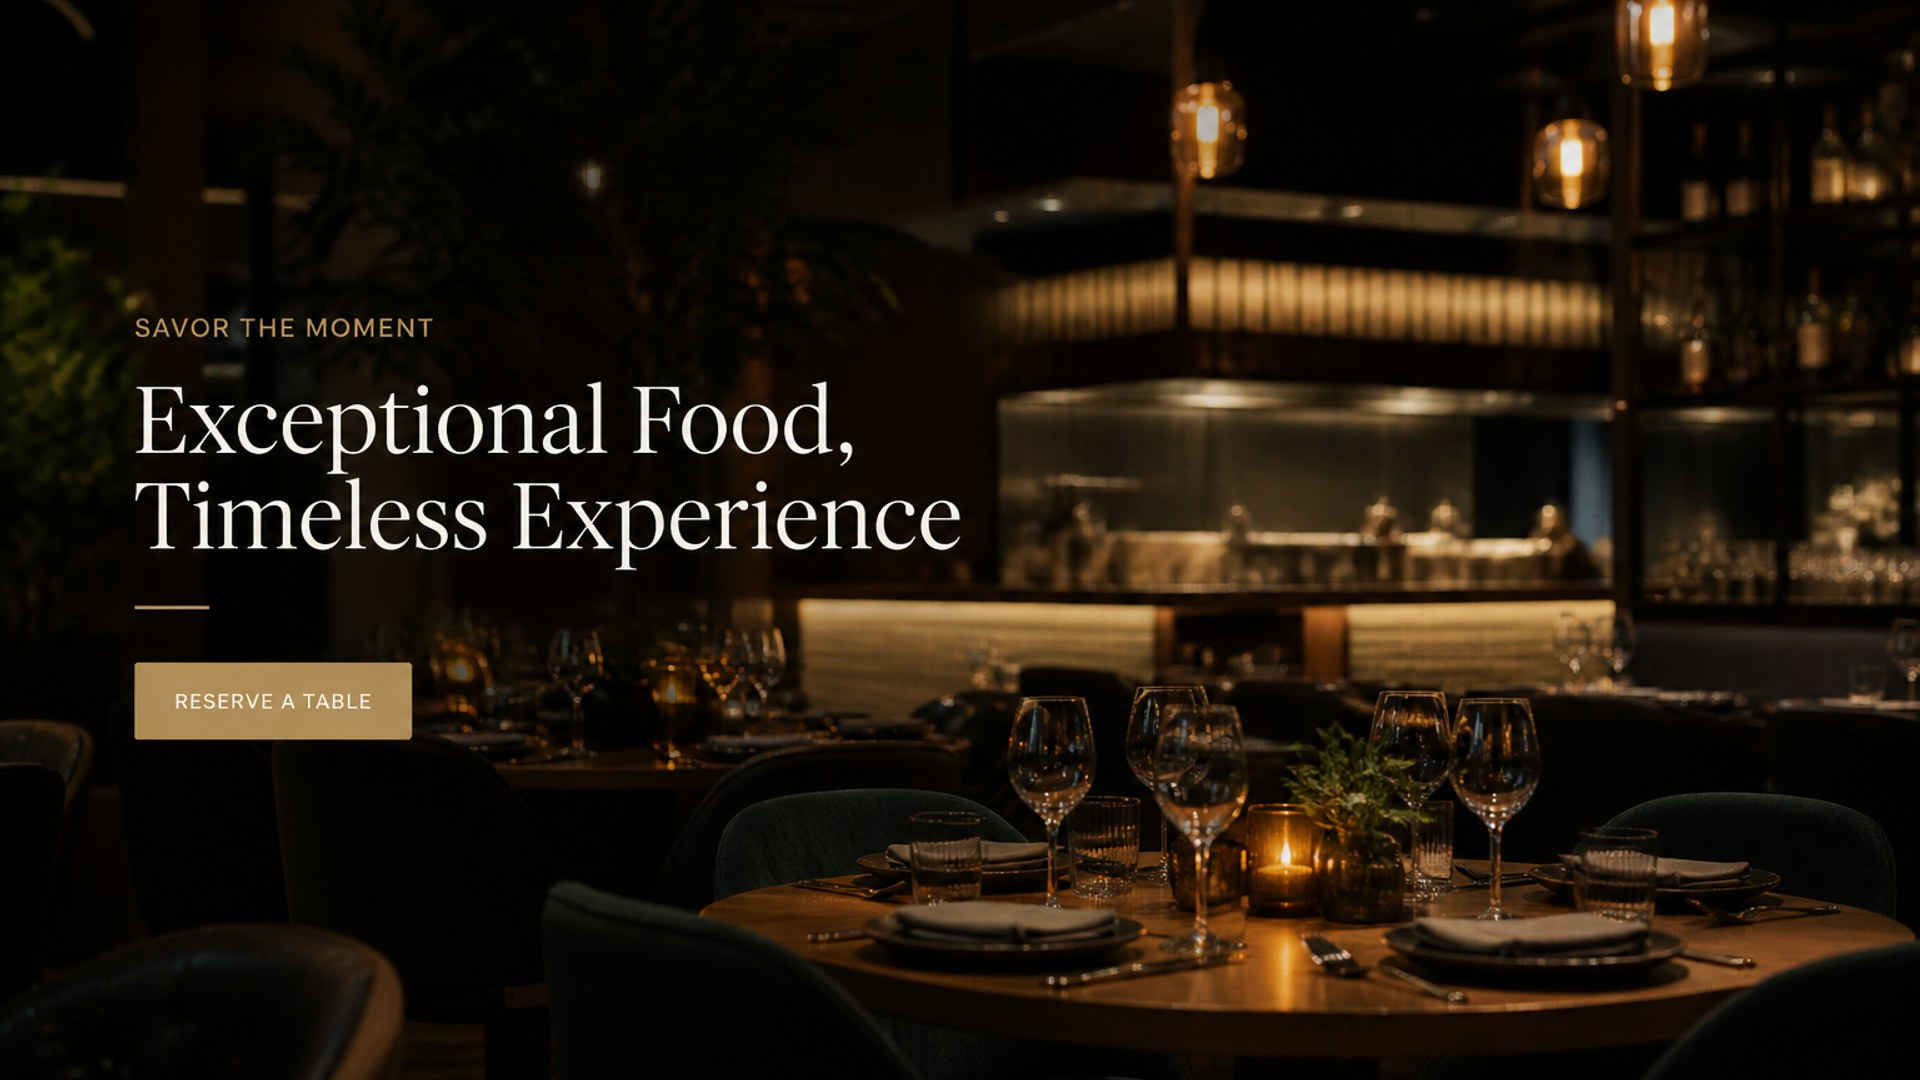
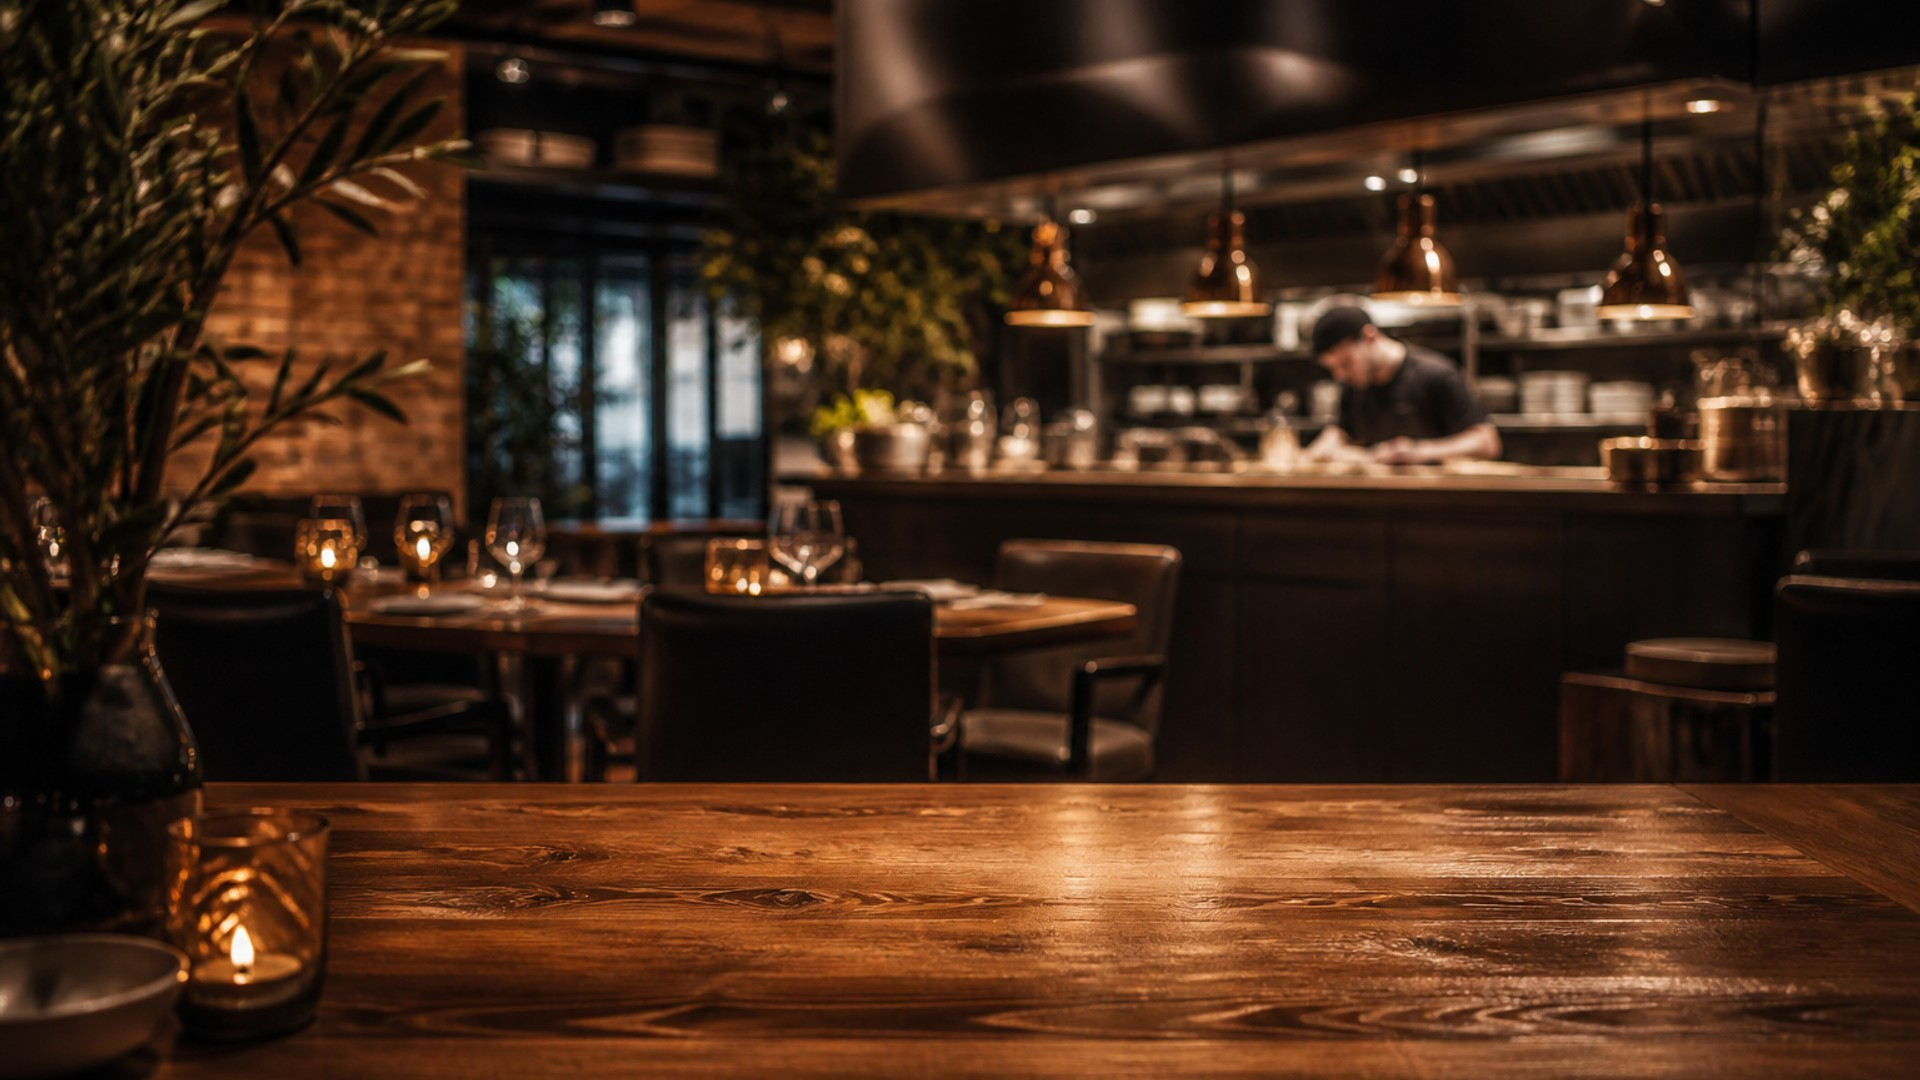
Fix hero phones: remove white frames, 2x size, BiteMate UI mockups, clean bg

diff --git a/apps/web/src/styles/marketing.css b/apps/web/src/styles/marketing.css
@@ -320,7 +320,7 @@
 .landing-hero--cinematic {
   position: relative;
   overflow: hidden;
-  min-height: clamp(520px, 88vh, 760px);
+  min-height: clamp(640px, 96vh, 920px);
   padding: clamp(2rem, 4vw, 3rem) 1.25rem clamp(2.5rem, 5vw, 3.5rem);
   display: flex;
   align-items: center;
@@ -353,11 +353,11 @@
   position: relative;
   z-index: 2;
   width: 100%;
-  max-width: 1180px;
+  max-width: 1280px;
   margin: 0 auto;
   display: grid;
-  grid-template-columns: minmax(0, 1.05fr) minmax(0, 0.95fr);
-  gap: clamp(1.5rem, 4vw, 3rem);
+  grid-template-columns: minmax(0, 0.95fr) minmax(0, 1.05fr);
+  gap: clamp(1rem, 3vw, 2rem);
   align-items: center;
 }
 
@@ -490,54 +490,52 @@
   display: flex;
   justify-content: center;
   align-items: flex-end;
-  min-height: clamp(340px, 48vw, 560px);
+  min-height: clamp(680px, 92vw, 1120px);
   margin-inline: auto;
-  max-width: 520px;
+  max-width: min(100%, 1040px);
 }
 
 .landing-hero__phone {
   margin: 0;
-  border-radius: clamp(24px, 3.5vw, 36px);
-  overflow: hidden;
-  box-shadow:
-    0 0 0 1px rgba(255, 255, 255, 0.14),
-    0 32px 64px rgba(0, 0, 0, 0.55),
-    0 0 48px rgba(255, 138, 0, 0.12);
+  overflow: visible;
   background: transparent;
   line-height: 0;
+  border: 0;
+  box-shadow: none;
 }
 
 .landing-hero__phone img {
   display: block;
-  width: clamp(148px, 22vw, 248px);
+  width: clamp(296px, 44vw, 496px);
   height: auto;
-  max-height: clamp(300px, 46vw, 520px);
+  max-height: clamp(600px, 88vw, 1040px);
   object-fit: contain;
   vertical-align: top;
+  filter: drop-shadow(0 36px 72px rgba(0, 0, 0, 0.55)) drop-shadow(0 0 40px rgba(255, 138, 0, 0.1));
 }
 
-.landing-hero__phone--map {
+.landing-hero__phone--discover {
   position: relative;
   z-index: 1;
-  transform: translateX(10%) rotate(-4deg);
+  transform: translateX(12%) rotate(-4deg);
   animation: landing-hero-phone-float-b 7s ease-in-out infinite;
 }
 
 .landing-hero__phone--profile {
   position: relative;
   z-index: 2;
-  transform: translateX(-18%) translateY(-2%) rotate(5deg);
+  transform: translateX(-20%) translateY(-2%) rotate(5deg);
   animation: landing-hero-phone-float-a 6s ease-in-out infinite;
 }
 
 @keyframes landing-hero-phone-float-a {
-  0%, 100% { transform: translateX(-18%) translateY(-2%) rotate(5deg); }
-  50% { transform: translateX(-18%) translateY(-12px) rotate(5deg); }
+  0%, 100% { transform: translateX(-20%) translateY(-2%) rotate(5deg); }
+  50% { transform: translateX(-20%) translateY(-12px) rotate(5deg); }
 }
 
 @keyframes landing-hero-phone-float-b {
-  0%, 100% { transform: translateX(10%) rotate(-4deg); }
-  50% { transform: translateX(10%) translateY(-8px) rotate(-4deg); }
+  0%, 100% { transform: translateX(12%) rotate(-4deg); }
+  50% { transform: translateX(12%) translateY(-8px) rotate(-4deg); }
 }
 
 .landing-hero {
@@ -1526,13 +1524,13 @@
   }
 
   .landing-hero__phones {
-    min-height: clamp(280px, 72vw, 380px);
+    min-height: clamp(360px, 95vw, 560px);
     max-width: 100%;
   }
 
   .landing-hero__phone img {
-    width: clamp(130px, 38vw, 190px);
-    max-height: clamp(260px, 68vw, 380px);
+    width: clamp(200px, 58vw, 320px);
+    max-height: clamp(400px, 90vw, 640px);
   }
 
   .landing-hero__inner {
@@ -1792,11 +1790,11 @@
     transform: none;
   }
 
-  .landing-hero__phone--map {
-    transform: translateX(10%) rotate(-4deg);
+  .landing-hero__phone--discover {
+    transform: translateX(12%) rotate(-4deg);
   }
 
   .landing-hero__phone--profile {
-    transform: translateX(-18%) translateY(-2%) rotate(5deg);
+    transform: translateX(-20%) translateY(-2%) rotate(5deg);
   }
 }

diff --git a/apps/web/src/presentation/pages/LandingPage.tsx b/apps/web/src/presentation/pages/LandingPage.tsx
@@ -161,11 +161,11 @@ function LandingHeroTitle({ title }: { title: string }) {
 function LandingHeroPhones() {
   return (
     <div className="landing-hero__phones" aria-hidden>
-      <figure className="landing-hero__phone landing-hero__phone--map">
-        <img src="/brand/landing-phone-map-hero.png" alt="" width={260} height={520} loading="eager" decoding="async" />
+      <figure className="landing-hero__phone landing-hero__phone--discover">
+        <img src="/brand/landing-phone-discover-hero.png" alt="" width={520} height={1040} loading="eager" decoding="async" />
       </figure>
       <figure className="landing-hero__phone landing-hero__phone--profile">
-        <img src="/brand/landing-phone-profile-hero.png" alt="" width={260} height={520} loading="eager" decoding="async" />
+        <img src="/brand/landing-phone-profile-hero.png" alt="" width={520} height={1040} loading="eager" decoding="async" />
       </figure>
     </div>
   );

diff --git a/apps/web/src/presentation/components/brand/logo-animation.version.ts b/apps/web/src/presentation/components/brand/logo-animation.version.ts
@@ -1,2 +1,2 @@
 /** Auto-generated by scripts/sync-logo-animation.mjs — do not edit */
-export const LOGO_ANIMATION_VERSION = '621eba29397e';
+export const LOGO_ANIMATION_VERSION = '5aab1e3c8158';
